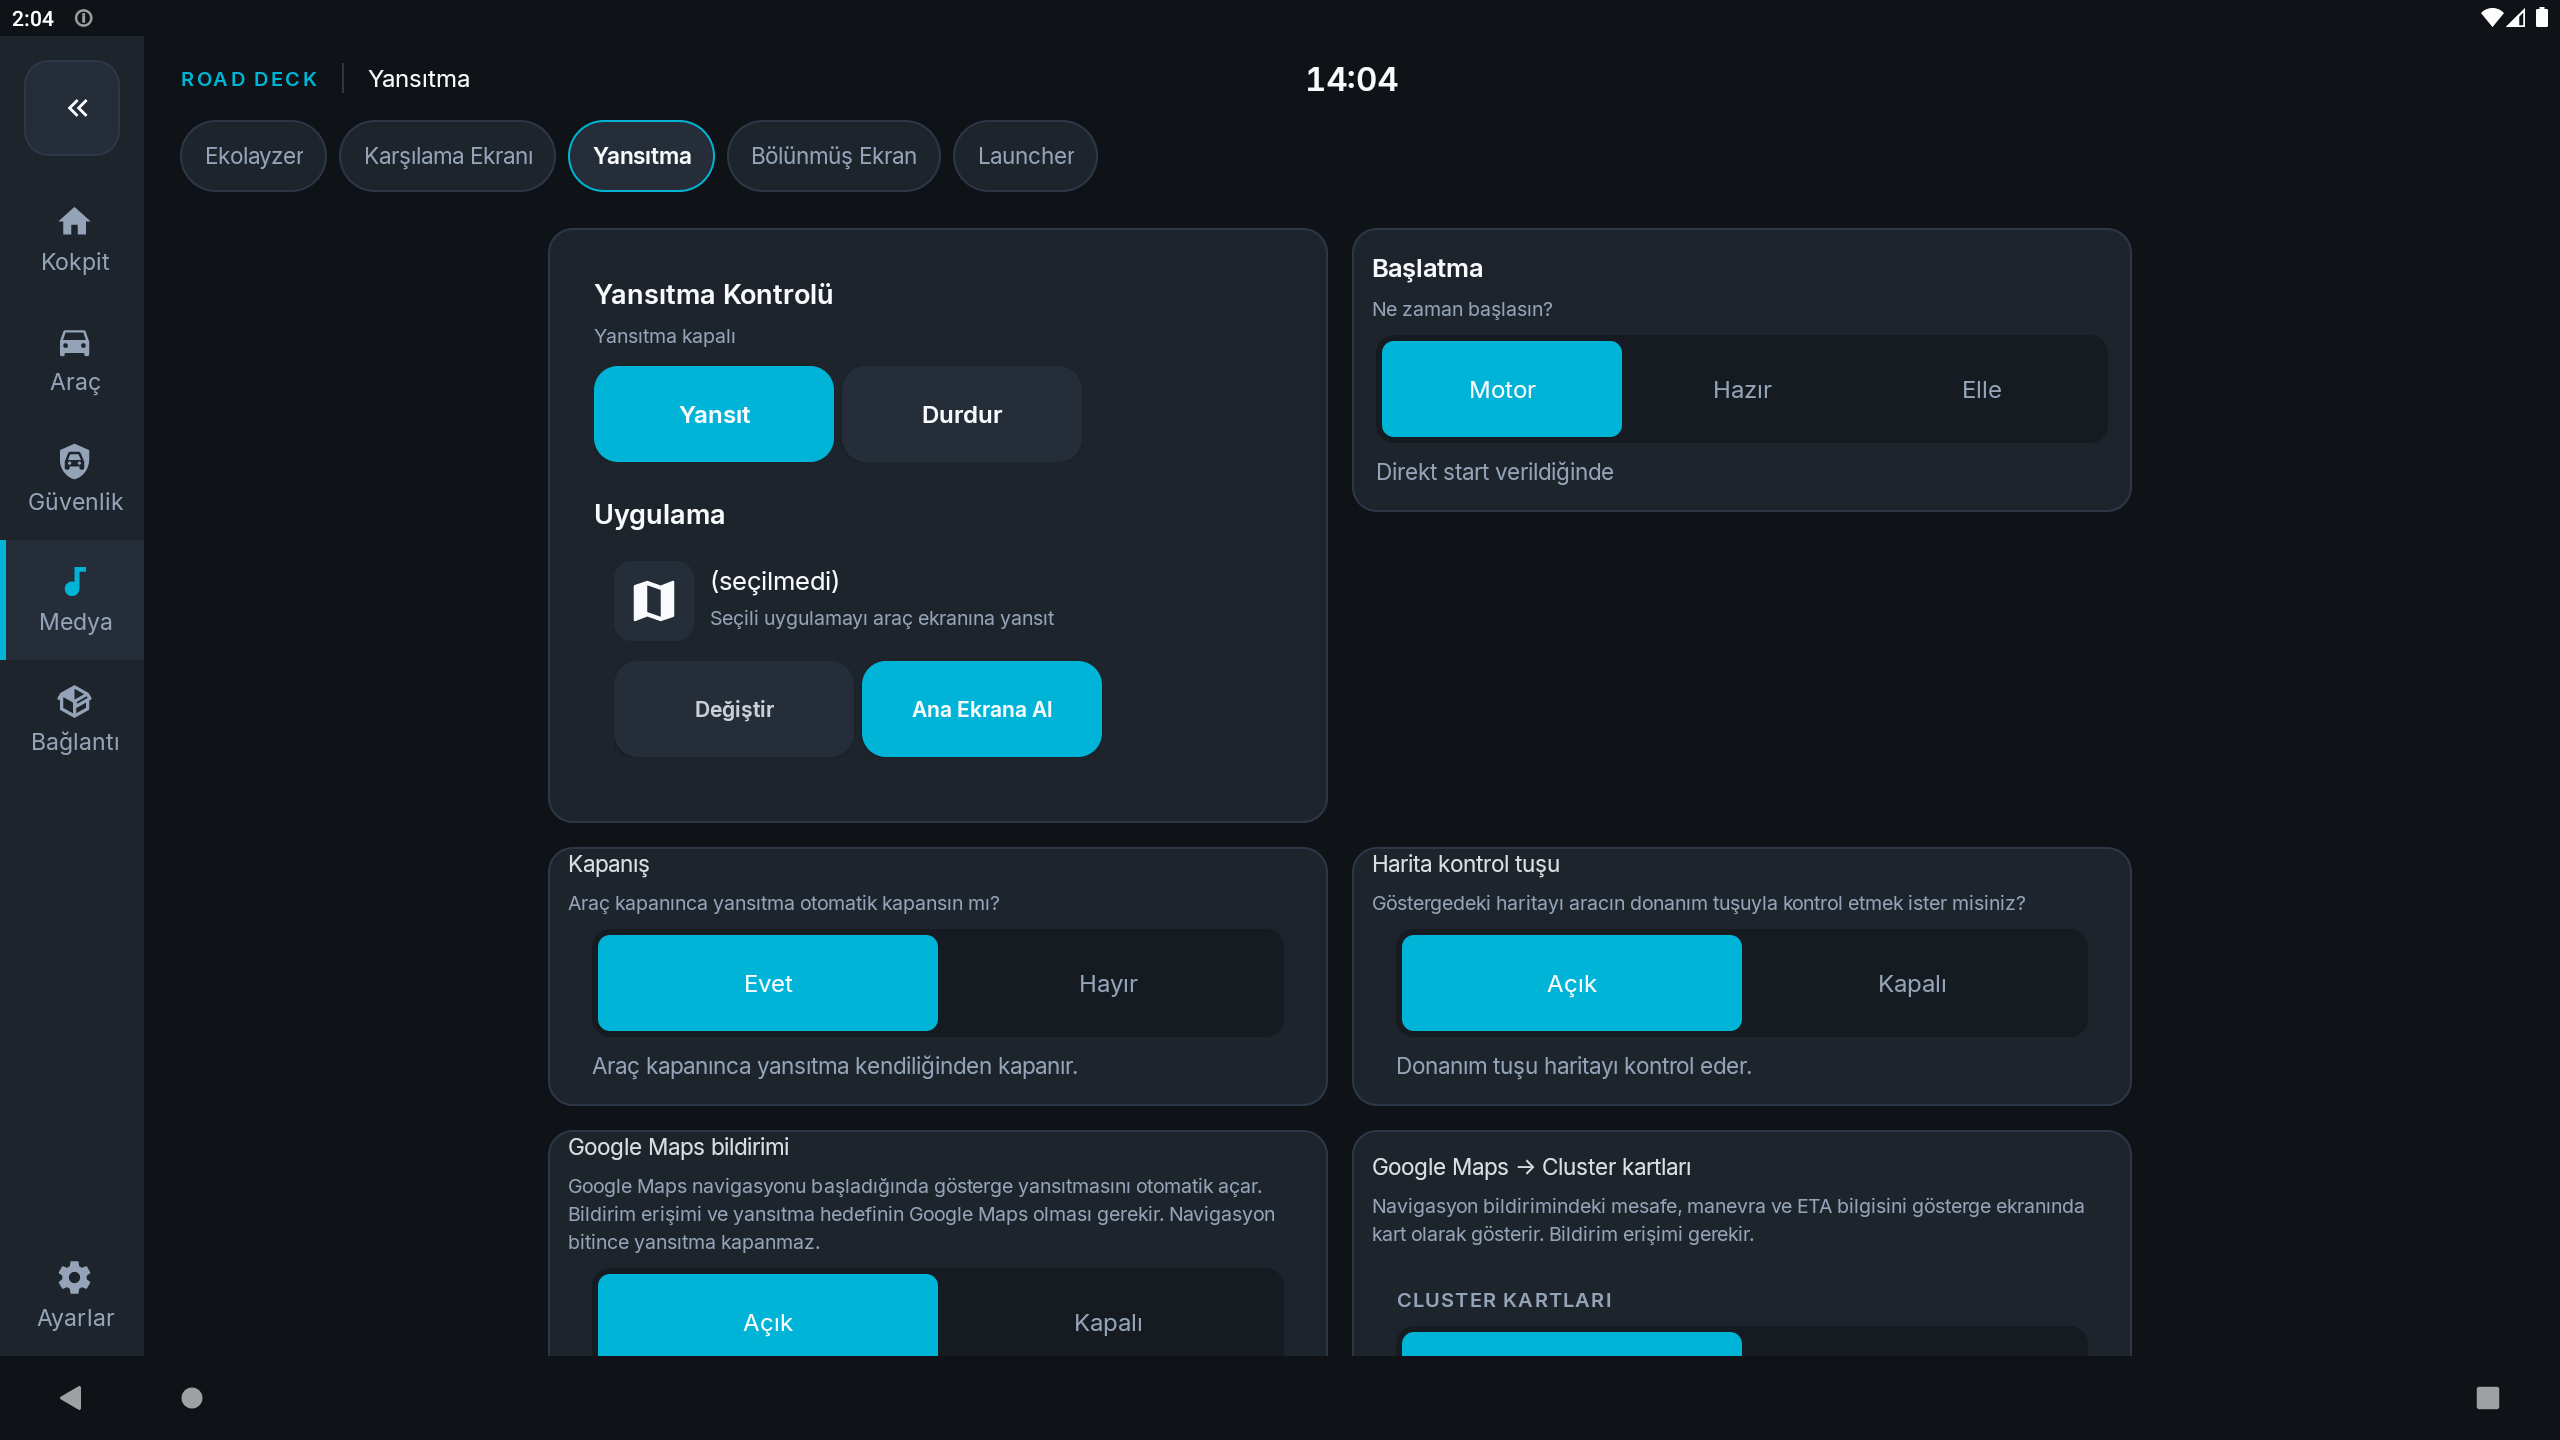
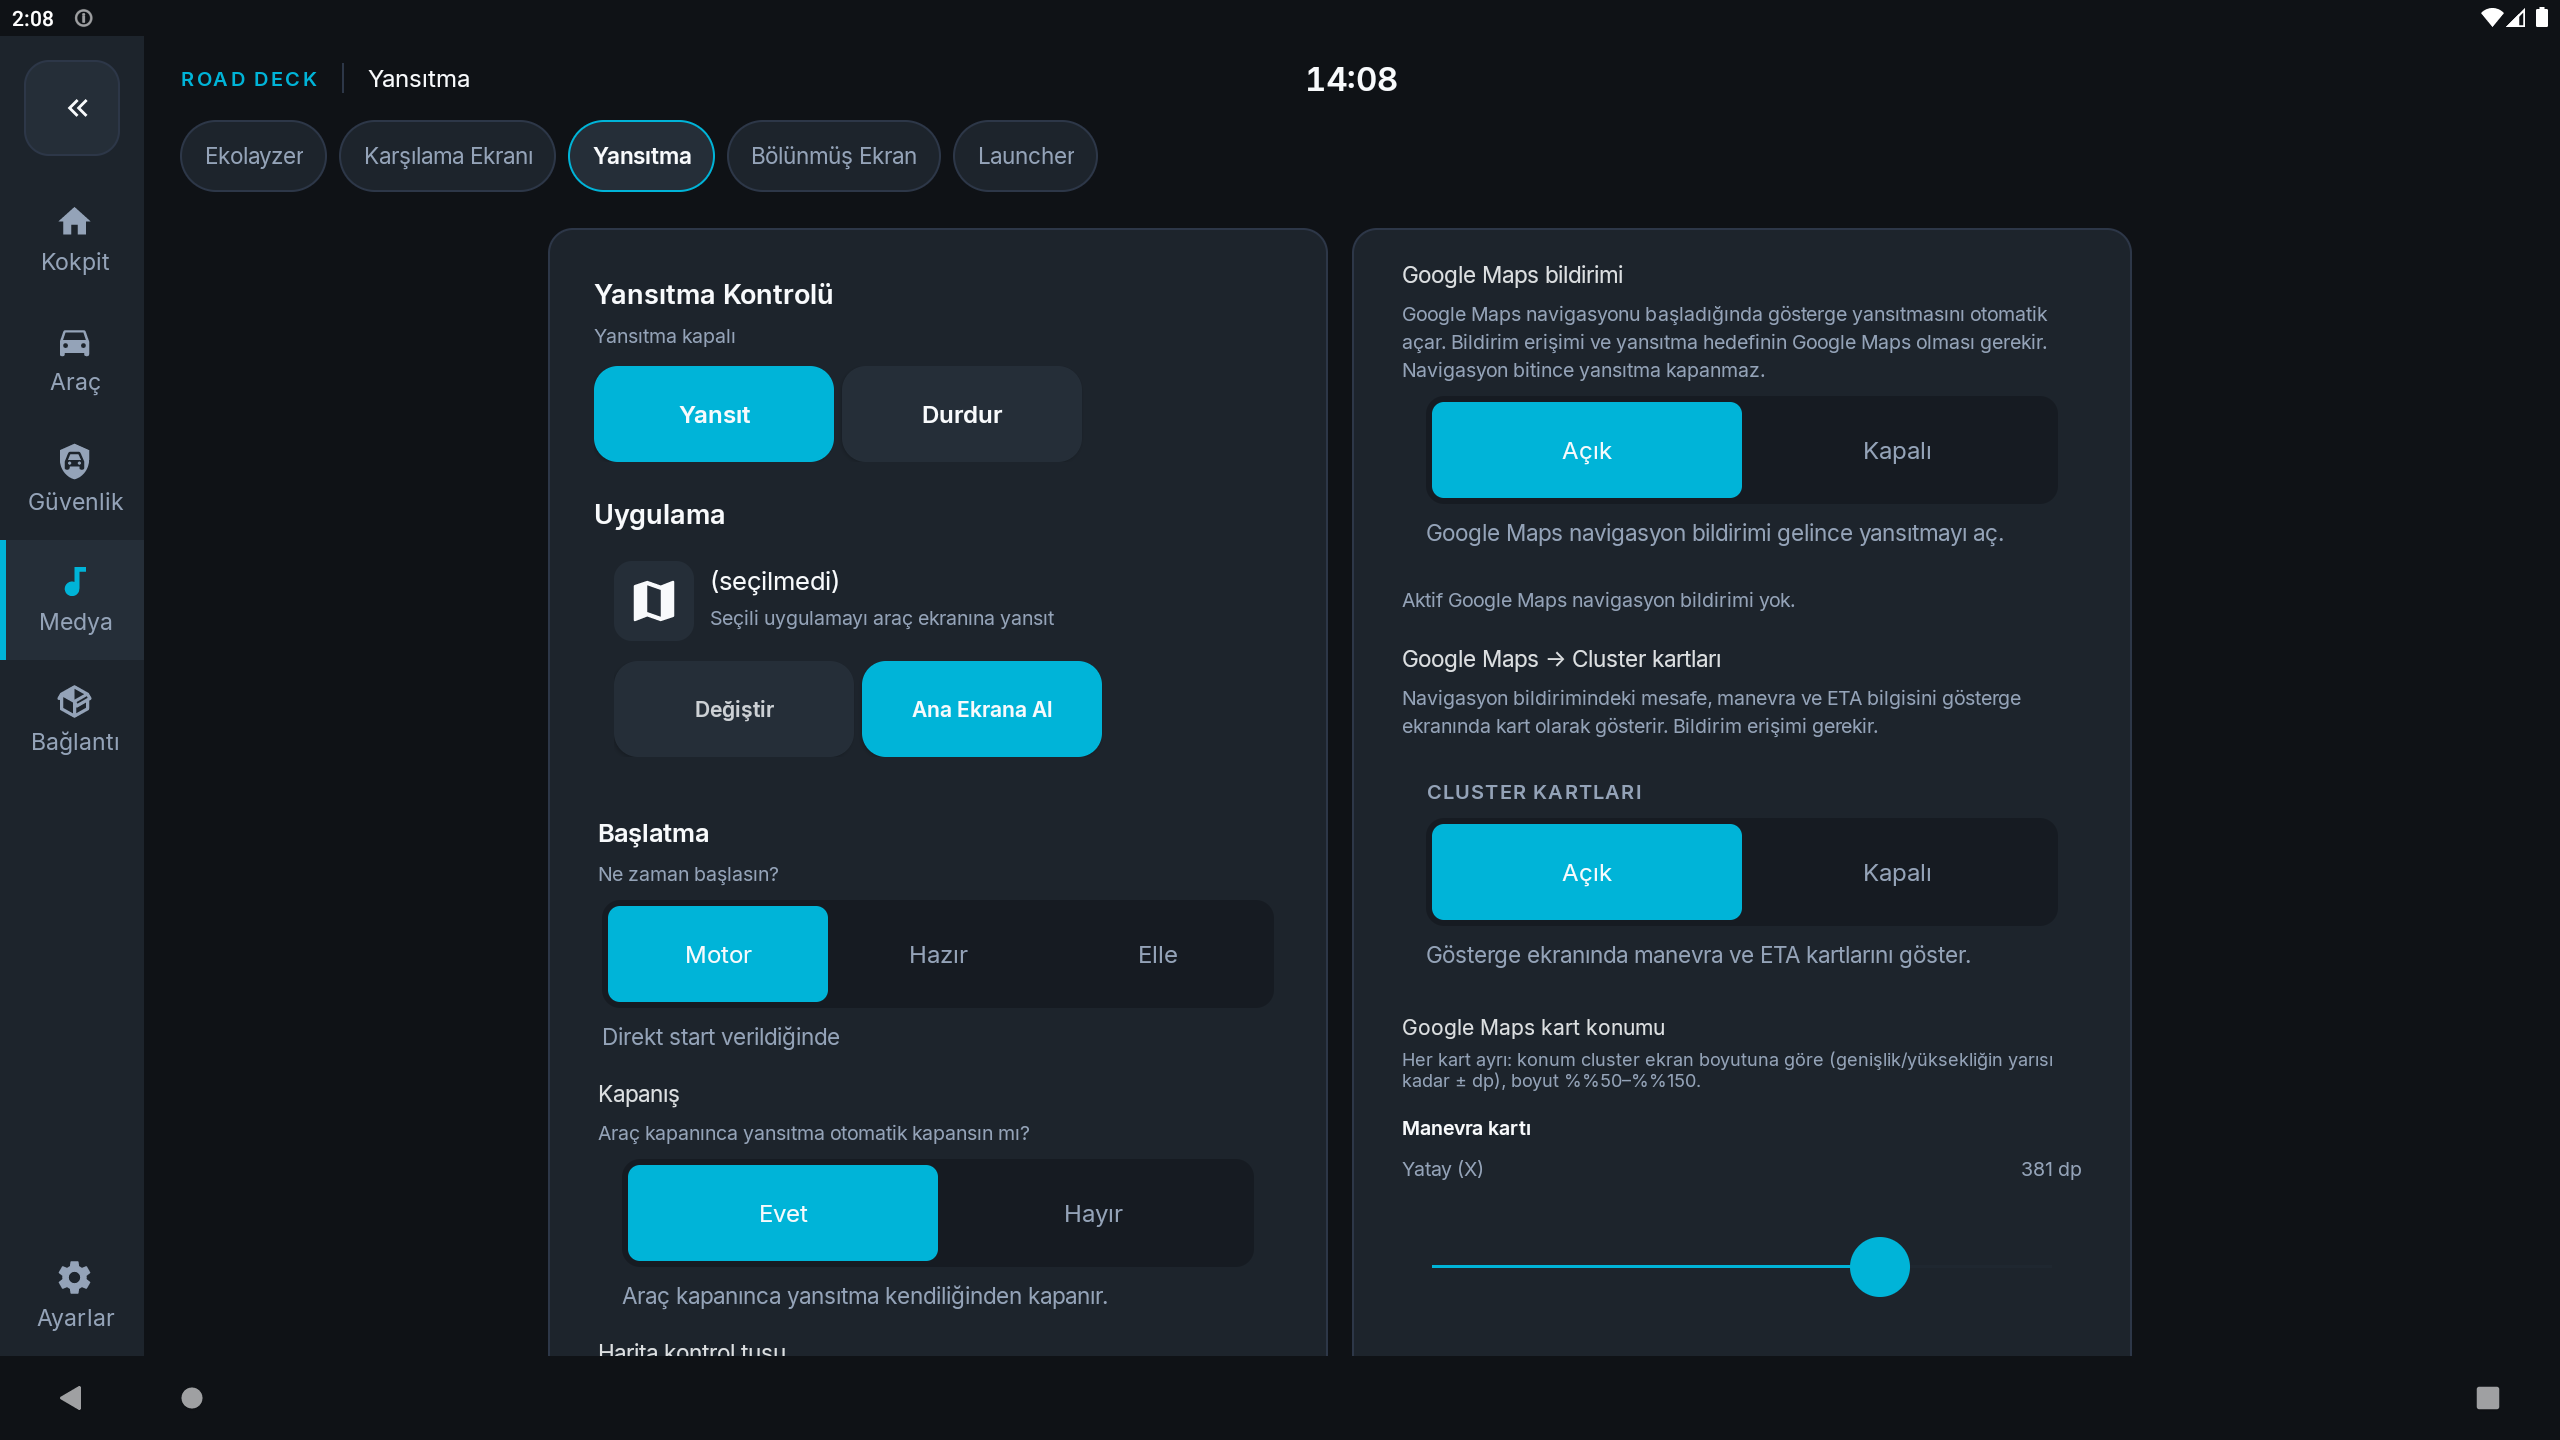
F4: Projection 2x2 anlamli kart duzeni
- Sol ust: Yansitma (kontrol+uygulama+baslatma/kapanis/harita tusu)
- Sag ust: Google Maps (bildirim+cluster+konum)
- Alt: Yandex ve Gelismis (harita kaydirma/wheel offset)
- Parcali mikro kartlar kaldirildi

diff --git a/app/src/main/java/com/mapcontrol/ui/builder/ProjectionTabBuilder.java b/app/src/main/java/com/mapcontrol/ui/builder/ProjectionTabBuilder.java
@@ -697,9 +697,11 @@ public class ProjectionTabBuilder {
                 ClusterNavOverlayOffsets.Provider.YANDEX,
                 () -> YandexClusterNavOverlay.getInstance(context).applyStoredOffsets());
 
-        // Navigasyon davranışını konu kartlarına böl; Google/Yandex ayrı.
-        java.util.List<LinearLayout> topicCards = new java.util.ArrayList<>();
-        LinearLayout topicCard = null;
+        // Navigasyon ayarlarını anlamlı 2x2 karta topla.
+        LinearLayout googleCard = createSectionCard();
+        LinearLayout yandexCard = createSectionCard();
+        LinearLayout advancedCard = createSectionCard();
+        LinearLayout target = leftCard;
         for (int i = 0; i < mainCardContainer.getChildCount(); ) {
             View child = mainCardContainer.getChildAt(i);
             boolean divider = !(child instanceof android.view.ViewGroup)
@@ -707,38 +709,29 @@ public class ProjectionTabBuilder {
                     && child.getLayoutParams().height == 1;
             if (divider) {
                 mainCardContainer.removeViewAt(i);
-                topicCard = null;
                 continue;
             }
-            String text = child instanceof TextView
-                    ? ((TextView) child).getText().toString() : "";
-            boolean newTopic = (text.startsWith("Yandex") || text.startsWith("Google Maps"))
-                    && text.contains("Cluster")
-                    && topicCard != null && topicCard.getChildCount() > 0;
-            if (text.startsWith("Yandex") && topicCard != null
-                    && topicCard.getChildCount() > 0) {
-                newTopic = true; // Google ve Yandex ayri kart
-            }
-            if (newTopic) {
-                topicCard = null;
-            }
-            if (topicCard == null) {
-                topicCard = new LinearLayout(context);
-                topicCard.setOrientation(LinearLayout.VERTICAL);
-                com.mapcontrol.ui.cockpit.CockpitSurfaces.level1(topicCard);
-                topicCards.add(topicCard);
+            if (child instanceof TextView) {
+                String text = ((TextView) child).getText().toString();
+                if (text.startsWith("Yandex")) {
+                    target = yandexCard;
+                } else if (text.contains("Harita kaydırma")) {
+                    target = advancedCard;
+                } else if (text.startsWith("Başlatma") || text.startsWith("Kapanış")
+                        || text.startsWith("Harita kontrol")) {
+                    target = leftCard;
+                } else if (text.startsWith("Google Maps")) {
+                    target = googleCard;
+                }
             }
             mainCardContainer.removeViewAt(i);
-            topicCard.addView(child);
+            target.addView(child);
         }
 
         projectionGrid.add(leftCard, 4);
-        for (int i = 0; i < topicCards.size(); i++) {
-            projectionGrid.add(topicCards.get(i), 4);
-        }
-        if (topicCards.size() % 2 == 1) {
-            projectionGrid.add(new View(context), 4);
-        }
+        projectionGrid.add(googleCard, 4);
+        projectionGrid.add(yandexCard, 4);
+        projectionGrid.add(advancedCard, 4);
         return scrollView;
     }
 
